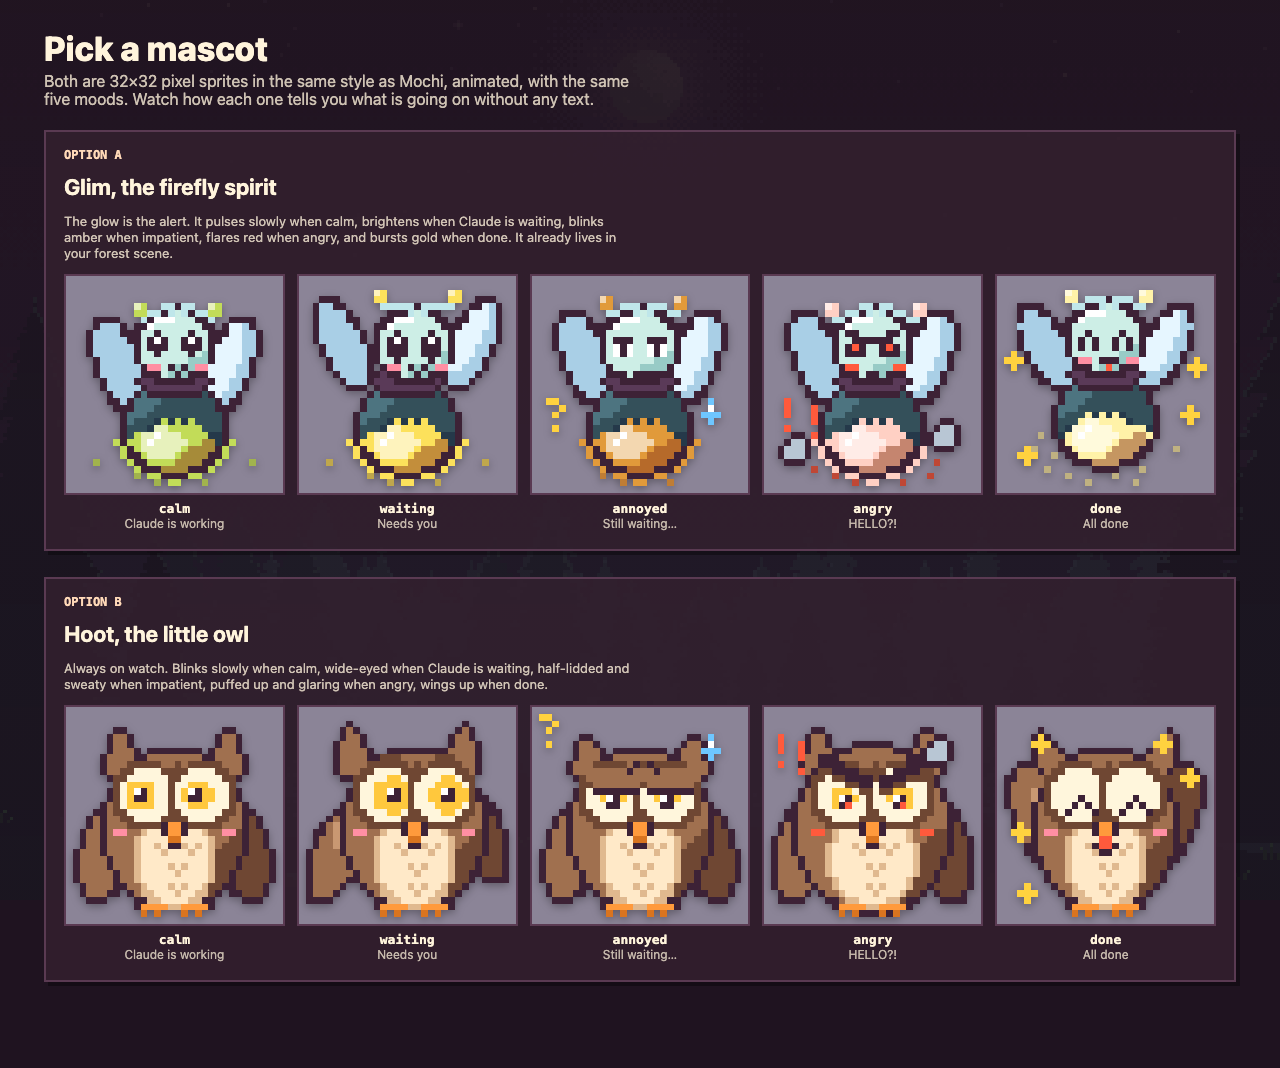
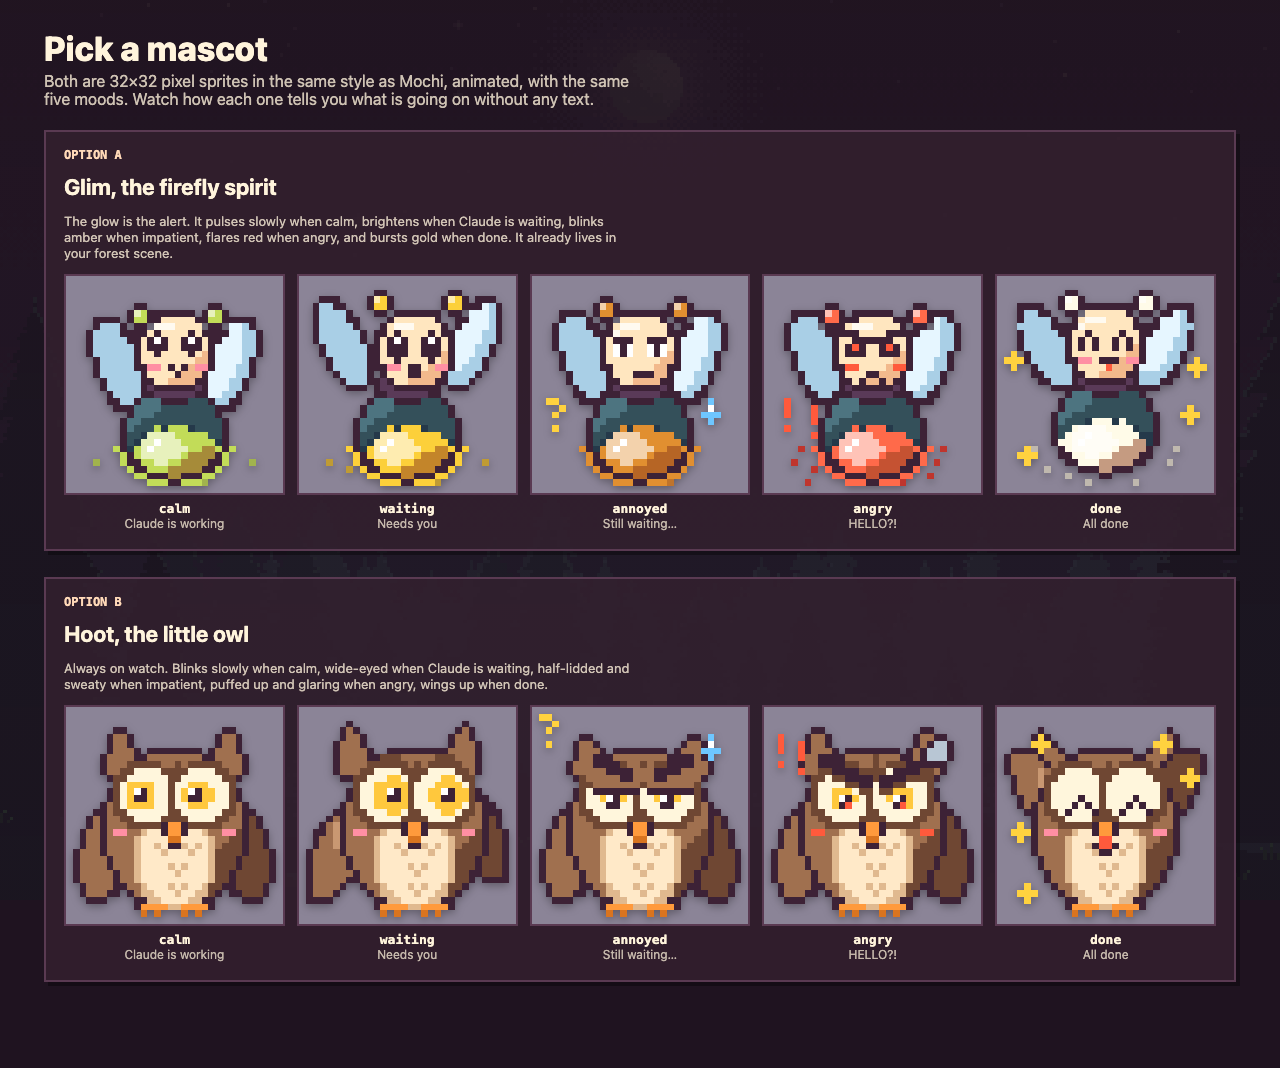
design: mascot round 5 prep: warm Glim face, Hoot done/angry/annoyed fixes

diff --git a/design/mascots/mascots.js b/design/mascots/mascots.js
@@ -66,7 +66,7 @@ function blinkAt(t, period, len = 0.14) { return (t % period) < len; }
 // ------------------------------------------------------------------ FIREFLY ("Glim")
 // Pale round face with big eyes, a small dark thorax, a dark abdomen whose bottom half is the glowing lamp,
 // slim wings, and antennae with glowing tips. Light stalks so they show against the dark scene.
-const FIREFLY_GLOW = { calm: '#d4f55e', waiting: '#ffe45c', annoyed: '#ffa83a', angry: '#ff5a3c', done: '#fff2a8' };
+const FIREFLY_GLOW = { calm: '#d4f55e', waiting: '#ffd23a', annoyed: '#ff9a2e', angry: '#ff4030', done: '#fffbe8' };
 
 Canvas32.prototype.inRot = function (x, y, cx, cy, rx, ry, deg) {
   const a = deg * Math.PI / 180, dx = x + 0.5 - cx, dy = y + 0.5 - cy;
@@ -81,10 +81,10 @@ function drawFirefly(mood, t) {
   const pulse = 0.5 + 0.5 * Math.sin(t * rate);
   const done = mood === 'done', angry = mood === 'angry', annoyed = mood === 'annoyed', waiting = mood === 'waiting';
   const hotFlash = angry && Math.floor(t * 7) % 2 === 0;
-  const lamp = angry ? (hotFlash ? '#ffd0c4' : '#ff4a3a') : mix('#6a6238', glow, done ? 1 : waiting ? 0.8 + 0.2 * pulse : 0.3 + 0.7 * pulse);
+  const lamp = angry ? (hotFlash ? '#ff6a4a' : '#ff2a1e') : mix('#6a6238', glow, done ? 1 : waiting ? 0.8 + 0.2 * pulse : 0.3 + 0.7 * pulse);
   const pal = [
     null, '#3d2236',
-    '#cdeee6', '#ffffff', '#98cbc6',                    // 2 face, 3 face hi, 4 face shade
+    '#ffe6bf', '#fffaf0', '#f2b98c',                    // 2 face (warm peach-cream), 3 face hi, 4 face shade
     '#e6f6ff', '#a9cfe6',                               // 5 wing, 6 wing shade
     lamp, mix(lamp, '#ffffff', 0.6), mix(lamp, '#8a3a1a', 0.5),   // 7 lamp, 8 hi, 9 dk
     '#ffffff', '#ff8fa3', '#6ec6ff', '#ffd23f', '#ff5a3c', '#b8c6d4', // 10 white, 11 cheek, 12 sweat, 13 gold, 14 red, 15 puff
@@ -94,11 +94,11 @@ function drawFirefly(mood, t) {
     '#bfe6ea',                                          // 23 antenna stalk (light, shows on dark)
   ];
   const ink = 1, cx = 16;
-  const bob = done ? -Math.round(Math.abs(Math.sin(t * 5)) * 2) : angry ? 0 : (Math.sin(t * 2.4) > 0.3 ? -1 : 0);
+  const bob = done ? -Math.round(Math.abs(Math.sin(t * 5)) * 1.4) : angry ? 0 : (Math.sin(t * 2.4) > 0.3 ? -1 : 0);
   const sh = angry ? (Math.floor(t * 16) % 2 ? 1 : 0) : 0;
   const oy = bob, X = cx + sh;
   const hx = waiting ? 1 : 0;
-  const headCy = 10.2 + oy, thoraxCy = 15.4 + oy, absCy = 22.4 + oy;
+  const headCy = 11 + oy, thoraxCy = 16.3 + oy, absCy = 23.2 + oy;
 
   // ---- wings (behind). waiting: lifted and flared.
   const flap = Math.sin(t * (angry ? 46 : done ? 24 : mood === 'calm' ? 8 : 15)) > 0;
@@ -131,14 +131,14 @@ function drawFirefly(mood, t) {
   c.set(Math.round(X - 4), Math.round(absCy + 2), 10); c.set(Math.round(X - 3), Math.round(absCy + 1), 10);
 
   // ---- thorax: a slim plum collar with two orange marks
-  c.blob(X, thoraxCy, 4.6, 2.0, 16, ink);
+  c.blob(X, thoraxCy, 4.2, 1.5, 16, ink);
   c.set(Math.round(X - 2), Math.round(thoraxCy), 18); c.set(Math.round(X + 1), Math.round(thoraxCy), 18); c.set(Math.round(X - 3), Math.round(thoraxCy - 1), 17);
 
   // ---- head: pale and round
   const hcx = X + hx;
-  c.blob(hcx, headCy, 5.2, 4.9, 2, ink);
+  c.blob(hcx, headCy, 5.0, 5.3, 2, ink);
   for (let y = 0; y < N; y++) for (let x = 0; x < N; x++) if (c.get(x, y) === 2) {
-    const dx = (x + 0.5 - hcx) / 5.2, dy = (y + 0.5 - headCy) / 4.9;
+    const dx = (x + 0.5 - hcx) / 5.0, dy = (y + 0.5 - headCy) / 5.3;
     if (dx * 0.6 + dy * 0.8 > 0.58) c.set(x, y, 4);
   }
   c.rect(Math.round(hcx - 3), Math.round(headCy - 4), 3, 1, 3); c.set(Math.round(hcx - 4), Math.round(headCy - 3), 3);
@@ -146,21 +146,21 @@ function drawFirefly(mood, t) {
   // ---- antennae: thin stalks rising from the top centre of the head, curving outward, with glowing bulbs
   const sway = Math.sin(t * 2.6) > 0.25 ? 1 : 0;
   const up = waiting ? 1 : 0, droop = mood === 'calm' ? 1 : 0, back = angry ? 1 : 0;
-  const topY = Math.round(headCy - 4.9);
+  const topY = Math.round(headCy - 5.3);
   for (const side of [-1, 1]) {
     const x0 = Math.round(hcx + side * 1.2), x1 = Math.round(hcx + side * (4.6 + sway + back));
-    const y1 = 4 + oy + back - up + droop;
-    c.set(x0, topY, 23); c.set(x0 + side * (x0 === hcx ? 1 : 0), topY - 1, 23);
-    c.line(Math.round(hcx + side * 1.6), topY - 1, x1, y1 + 1, 23);
+    const y1 = 5 + oy + back - up + droop;
+    c.line(Math.round(hcx + side * 1.6), topY - 1, x1, y1 + 1, ink);
     const tx = side < 0 ? x1 - 1 : x1;
-    c.rect(tx, y1 - 1, 2, 2, 7); c.set(tx, y1 - 1, pulse > 0.4 || done ? 8 : 7);
+    c.rect(tx - 1, y1 - 2, 4, 4, ink); c.rect(tx, y1 - 1, 2, 2, 7); c.set(tx, y1 - 1, pulse > 0.4 || done ? 8 : 7);
+    c.set(tx - 1, y1 - 2, 0); c.set(tx + 2, y1 - 2, 0); c.set(tx - 1, y1 + 1, 0); c.set(tx + 2, y1 + 1, 0);
   }
 
   // ---- face: dark eyes straight on the pale face, one catchlight each
   const ey = Math.round(headCy - 2.6);
   const eyeL = Math.round(hcx - 4), eyeR = Math.round(hcx + 1);
   const blink = (mood === 'calm' && ((t % 3.6) < 0.14)) || (waiting && ((t % 2.6) < 0.12));
-  function eye(x, h) { c.rect(x, ey, 3, h, ink); c.set(x, ey, 2); c.set(x + 2, ey, 2); c.set(x, ey + h - 1, 2); c.set(x + 2, ey + h - 1, 2); c.set(x + 1, ey + 1, 10); if (h > 3) c.set(x + 1, ey + 2, ink); }
+  function eye(x, h) { c.rect(x, ey, 3, h, ink); c.set(x, ey, 2); c.set(x + 2, ey, 2); c.set(x, ey + h - 1, 2); c.set(x + 2, ey + h - 1, 2); c.set(x + 1, ey + 1, 10); }
   for (const x of [eyeL, eyeR]) {
     if (done) { c.set(x, ey + 2, ink); c.set(x + 1, ey + 1, ink); c.set(x + 2, ey + 2, ink); c.set(x, ey + 3, ink); c.set(x + 2, ey + 3, ink); }
     else if (blink) c.rect(x, ey + 2, 3, 1, ink);
@@ -175,6 +175,7 @@ function drawFirefly(mood, t) {
   if (done) { c.rect(mx - 1, my, 3, 1, ink); c.rect(mx, my + 1, 1, 1, 14); }
   else if (angry) { c.set(mx - 1, my + 1, ink); c.set(mx, my + 1, ink); c.set(mx - 2, my + 2, ink); c.set(mx + 1, my + 2, ink); }
   else if (annoyed) { c.rect(mx - 1, my + 1, 3, 1, ink); }
+  else if (waiting) { c.rect(mx - 1, my, 2, 2, ink); }
   else { c.set(mx - 1, my, ink); c.set(mx, my + 1, ink); c.set(mx + 1, my, ink); }
 
   // ---- halo: a 1px glow rim right outside the abdomen's lower half, plus sparse outer sparks when bright
@@ -188,7 +189,7 @@ function drawFirefly(mood, t) {
 
   // ---- extras, kept off the wings and at least 1px inside the frame
   if (annoyed) { c.sweat(26, 18 + (Math.sin(t * 2) > 0 ? 1 : 0), 12, 10); c.glyph('?', 2, 18, 13); }
-  if (angry) { c.glyph('!', 2, 18 + (Math.floor(t * 8) % 2), 14); c.glyph('!', 6, 18 + (Math.floor(t * 8 + 1) % 2), 14); const s = Math.floor(t * 6) % 2; c.puff(25, 23 - s, 15); c.puff(3, 25 - s, 15); }
+  if (angry) { c.glyph('!', 2, 18 + (Math.floor(t * 8) % 2), 14); c.glyph('!', 6, 18 + (Math.floor(t * 8 + 1) % 2), 14); }
   if (done) { const k = Math.floor(t * 6); [[3, 20], [28, 19], [4, 26], [27, 26], [2, 12], [29, 12]].forEach(([x, y], i) => { if ((k + i) % 3 !== 0) c.plus(x, y + ((k + i) % 2), 13); }); }
   if (mood === 'calm' || waiting) { [[3, 22, 0], [28, 23, 1.7], [4, 27, 3.1], [27, 28, 4.6]].forEach(([x, y, ph]) => { if (Math.sin(t * 2 + ph) > 0.1) c.set(x, y - (Math.round(Math.sin(t + ph) + 1)), 22); }); }
   return { px: c.px, pal };
@@ -208,7 +209,8 @@ function drawOwl(mood, t) {
   const ink = 1;
   const done = mood === 'done', angry = mood === 'angry', annoyed = mood === 'annoyed', waiting = mood === 'waiting';
   const bob = done ? 0 : angry ? 0 : (Math.sin(t * 2) > 0.5 ? -1 : 0);
-  const oy = bob, puff = angry ? 1 : 0;
+  const ruffle0 = angry ? (Math.floor(t * 8) % 2) : 0;
+  const oy = bob, puff = ruffle0;
   const lean = waiting ? 1 : angry ? (Math.floor(t * 14) % 2 ? 1 : 0) : 0;
   const ruffle = angry ? (Math.floor(t * 8) % 2) : 0;
 
@@ -223,11 +225,11 @@ function drawOwl(mood, t) {
   tuft(-1); tuft(1);
 
   // wings behind: lit from the top left, so the left wing is lighter; tips lift away from the body when waiting
-  const wy = done ? 16 : 21;
+  const wy = done ? 13 : 21;
   for (const side of [-1, 1]) {
     const wave = waiting && side === 1 ? (Math.sin(t * 6) > 0 ? -5 : -3) : 0;
-    const cx = 16 + side * (done ? 9.6 : 10 + puff * 0.4 + (waiting ? 0.2 : 0)), cy = wy + oy + wave;
-    const shear = waiting ? 0.36 : 0.2, ry = done ? 7.0 : 7.2;
+    const cx = 16 + side * (done ? 8.6 : 10 + puff * 0.4 + (waiting ? 0.2 : 0)), cy = wy + oy + wave;
+    const shear = waiting ? 0.36 : done ? 0.4 : 0.2, ry = done ? 6.4 : 7.2;
     for (let y = 0; y < N; y++) for (let x = 0; x < N; x++) {
       const lean2 = (y - cy) * shear * side * (done ? -1.3 : 1);
       if (c.inEllipse(x - lean2, y, cx, cy, 3.6, ry)) c.set(x, y, side < 0 ? 2 : 3);
@@ -245,7 +247,7 @@ function drawOwl(mood, t) {
   }
   c.rect(bx - 7, by - 9, 3, 1, 4); c.rect(bx - 8, by - 8, 2, 2, 4);
   // forehead feather marks
-  [[bx - 3, by - 9], [bx, by - 10], [bx + 3, by - 9]].forEach(([x, y]) => { c.set(x, y, 3); c.set(x, y + 1, 3); });
+  [[bx - 3, by - 9], [bx, by - 10], [bx + 3, by - 9]].forEach(([x, y], i) => { const up = angry && (ruffle + i) % 2 ? 1 : 0; c.set(x, y - up, 3); c.set(x, y + 1 - up, 3); c.set(x, y + 2 - up, 3); });
 
   // belly
   c.ellipse(bx, by + 4.5, 6.3 + puff * 0.6, 7.3, 5);
@@ -269,7 +271,7 @@ function drawOwl(mood, t) {
     }
   };
   ring(exL); ring(exR);
-  const lid = (mood === 'calm' && blinkAt(t, 4.2, 0.16)) || (waiting && blinkAt(t, 2.8, 0.14)) || false;
+  const lid = (mood === 'calm' && blinkAt(t, 3.0, 0.2)) || (waiting && blinkAt(t, 2.8, 0.14)) || false;
   const look = waiting ? (Math.sin(t * 1.2) > 0 ? 1 : 0) : mood === 'calm' ? (Math.sin(t * 1.9) > 0.45 ? 1 : Math.sin(t * 1.9) < -0.45 ? -1 : 0) : 0;
   const eye = (cx, side) => {
     const ix = Math.round(cx), iy = Math.round(ey);
@@ -285,7 +287,7 @@ function drawOwl(mood, t) {
     if (angry) { c.set(px + 1, py + 1, 14); }
     if (annoyed) { // flat lid over the top, pupil still showing underneath, brow slanting down at the inner corner
       c.rect(ix - 4, iy - 4, 9, 3, 2); for (let k = -3; k <= 3; k++) c.set(ix + k, iy - 1, ink); c.set(ix - 4, iy - 2, 3); c.set(ix + 4, iy - 2, 3);
-      c.set(ix - side * 3, iy - 5, ink); c.set(ix - side * 2, iy - 4, ink);
+      c.line(ix + side * 3, iy - 6, ix - side * 2, iy - 4, ink); c.line(ix + side * 3, iy - 5, ix - side * 2, iy - 3, ink);
       c.rect(px, py + 1, 2, 2, ink); c.set(px, py + 1, 16);
     }
     if (angry) { // thick slanted brows, low on the inside

diff --git a/docs/loops/ledger.md b/docs/loops/ledger.md
@@ -7,3 +7,5 @@
 - mascot art, round 3 prep: Glim rebuilt (pale face, light antenna stalks, lamp = bottom of abdomen, rim glow). Hoot: calm eyes open & glancing, no lid bar; wings narrowed. Added design/mascots/check-bounds.mjs (automated verifier for criterion 6): it caught side/bottom/top clipping the eye missed; now passes for every mood at 160 time steps.
 - mascot art, round 3: reviewer FAIL both. Glim 6 fails (antennae read as cat ears, annoyed eyes vanish, wing outline/highlight, eye mask, angry flat/muddy). Hoot 3 fails (waiting~calm, waiting/angry static, done not rewarding). Preview bg was near-plum so plum outlines were invisible: switching preview to a neutral desktop-like grey with the app's rim light + shadow, as Mochi's real popup has.
 - mascot art, round 4 prep: preview now on desktop-like grey with the app's rim light/shadow (outlines read). Glim: narrower head, antenna stalks from head centre with bulbs, simple eyes with catchlight, wing light from top-left, bold flashing red angry lamp with wide halo. Hoot: waiting wave + faster foot tap, outlined puffs, done mouth + more sparkles. check-bounds passes.
+- mascot art, round 4: reviewer FAIL both. Hoot passes 1-6; fails 7 (angry static, calm blink) and 8 (annoyed sleepy, done wings blend). Glim fails 1,2,3,4,5,8 (bee/skull read, calm~waiting, catchlight not readable at 64px, muddy angry blobs, angry lamp pale pink). Round 5 (last) applying: Hoot angry body-puff + crown flick, bold annoyed brows, done wings raised; Glim darker stalks, bigger catchlights, 1px neck, waiting 'o' mouth, warm-white done, saturated red angry, steam removed.
+- mascot art, round 5 prep (last): Glim face warmed to peach-cream (the mint read as skull/ghost), single catchlight, antennae base lowered; Hoot done wings pulled inside the frame, bold annoyed brows, angry body puff + crown flick. check-bounds passes.
